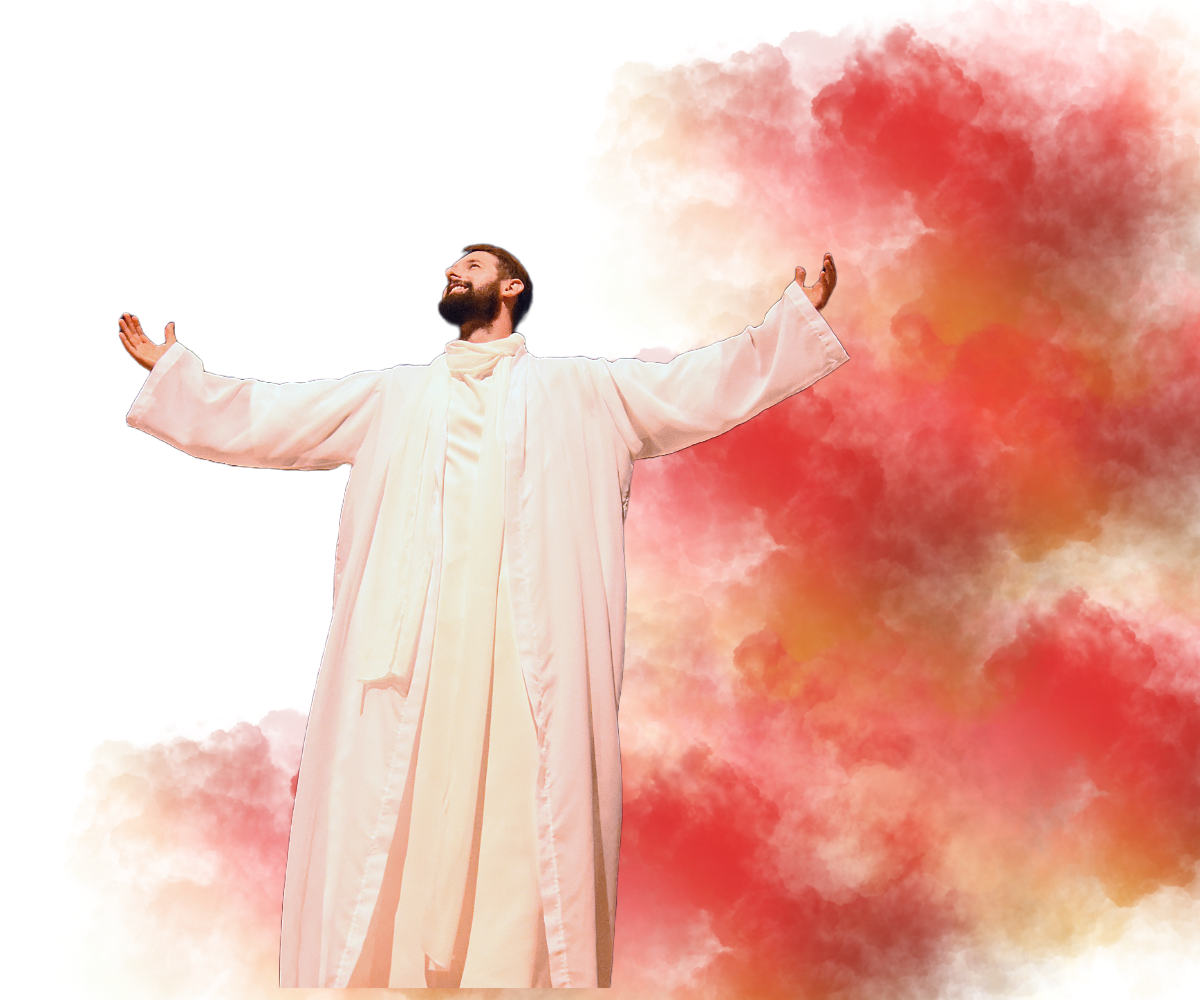
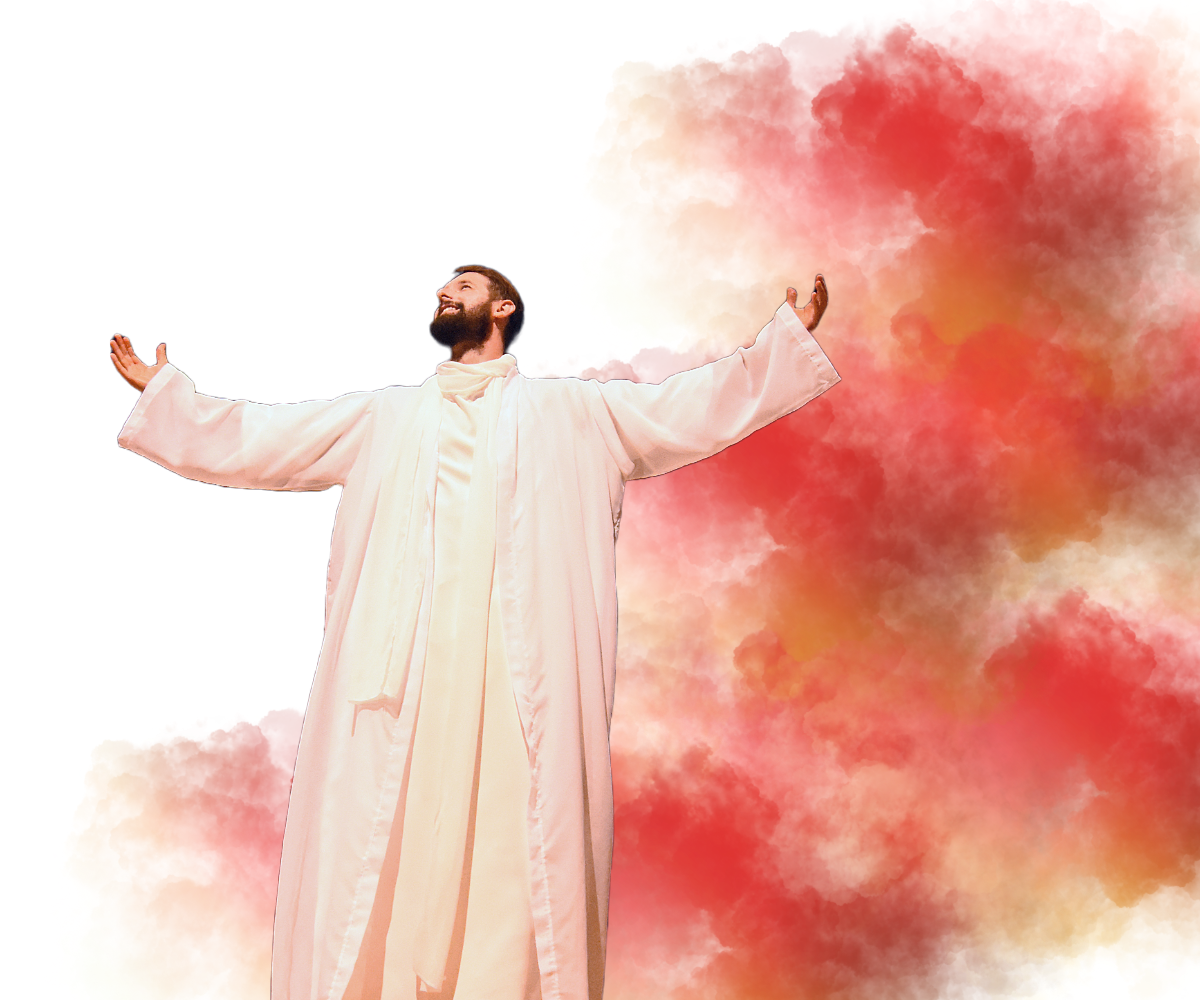
..

Changed region(s): [[0.0925, 0.248, 0.7092, 1.0], [0.2158, 0.775, 0.2775, 0.93]]

diff --git a/estilo.css b/estilo.css
@@ -1,7 +1,38 @@
+header {
+    width: 1440px;
+    height: 164px;
+    background-color: #800000; /* Cor de fundo do cabeçalho */
+    display: flex; /* Usar flexbox para centralizar o logo */
+    justify-content: center; /* Centralizar o logo na horizontal */
+    align-items: center; /* Centralizar o logo na vertical */
+    margin-right: 0%;
+}
+ 
+.logo {
+    width: 200px; /* Ajustar o tamanho do logo */
+    height: auto;
+}
 .body{
-    text-align: left; 
-    color: #800000;
+   background-image: url(Imagens/Fundo\ index\ auto\ v1.png);
+   background-size: cover;
+   background-position-x: right;
     }
+    .titulo {
+ text-align: left; 
+ color: #800000;
+width: 690px;
+height: 153px;
+    }
+
+    .img{
+        position: fixed; /* Fixar a imagem na tela */
+        top: 0; /* Posicionar no topo */
+        left: 0; /* Posicionar na esquerda */
+        width: 100%; /* Cobertura total na horizontal */
+        height: 100%; /* Cobertura total na vertical */
+        z-index: -1; /* Posicionar atrás do conteúdo */
+      }
+
 .button {
     content: ''; /* Conteúdo vazio para o ícone */
     display: inline-block;
@@ -10,4 +41,4 @@
     border: 2px solid #800000; /* Contorno preto para o triângulo */
     border-right: transparent; /* Remover borda direita para criar a seta */
     border-top: transparent; /* Remover borda superior para criar a seta */
-    transform: rotate(45deg);}
+}

diff --git a/saibamais.html b/saibamais.html
@@ -3,9 +3,20 @@
 <head>
     <meta charset="UTF-8">
     <meta name="viewport" content="width=device-width, initial-scale=1.0">
-    <title>Document</title>
+    <link rel="shortcut icon" href="Imagens/favicon.png" type="image/x-icon">
+    <link rel="stylesheet" href="estilo4.css">
+    <title>Saiba Mais</title>
 </head>
+<link rel="preconnect" href="https://fonts.googleapis.com">
+<link rel="preconnect" href="https://fonts.gstatic.com" crossorigin>
+<link href="https://fonts.googleapis.com/css2?family=League+Spartan:wght@100..900&display=swap" rel="stylesheet">
 <body>
+    
+    <h1>Nossa história</h1>
+    <p> O projeto do espetáculo teve início dentro de igrejas evangélicas de Americana e Santa Bárbara em 2017, sendo realizado nos templos. “Desde o primeiro que nós fizemos, nós fomos incentivados a realmente sair [de dentro das igrejas]. Falavam ‘poxa, esse projeto está muito bonito’”.
+    Foi no ano passado, com o “Auto de Páscoa – Tikvah” que os voluntários de cerca de 10 igrejas da região se reuniram para levar a encenação ao público geral.
+    Buscando para se consolidar o Espetáculo vai estrelar esse ano sobre a direção de Jhon Wesley Pantoja e Thiago Sasse para uma performance espetácular!
+    </p>
     
 </body>
 </html>

diff --git a/index.html b/index.html
@@ -10,16 +10,19 @@
 <link rel="preconnect" href="https://fonts.googleapis.com">
 <link rel="preconnect" href="https://fonts.gstatic.com" crossorigin>
 <link href="https://fonts.googleapis.com/css2?family=League+Spartan:wght@100..900&display=swap" rel="stylesheet">
+
 <body>
-   <div class="titulo"><h1>O maior espectáculo de Páscoa de Americana!</h1></div>
+
+    <header><img src="Imagens/logo cabeçalho.jpg" alt="logo"   width: 1440px;
+        height: 141px;> </header>
+   <div class="titulo"><h1>O maior espetáculo de Páscoa de Americana!</h1></div>
        <div class="button">
            <button type="button" href="participe.html">Participe</button></li>
            <button type="butt" href="ingressos.html">Ingressos</button></li>
            <button type="but"  href="saibamais.html">Saiba mais</button></li>
         </div>
    
-   
-    <img src="Imagens/Fundo index auto v1.png" alt="">
+        <img src="Imagens/Fundo index auto v1.png" alt="imagem de jesus" width="1200px" height="1000 px">
    
 </body>
 </html>

diff --git a/ingressos.html b/ingressos.html
@@ -3,8 +3,13 @@
 <head>
     <meta charset="UTF-8">
     <meta name="viewport" content="width=device-width, initial-scale=1.0">
-    <title>Document</title>
+    <link rel="shortcut icon" href="Imagens/favicon.png" type="image/x-icon">
+    <link rel="stylesheet" href="estilo2.css">
+    <title>Ingressos</title>
 </head>
+<link rel="preconnect" href="https://fonts.googleapis.com">
+<link rel="preconnect" href="https://fonts.gstatic.com" crossorigin>
+<link href="https://fonts.googleapis.com/css2?family=League+Spartan:wght@100..900&display=swap" rel="stylesheet">
 <body>
     
 </body>

diff --git a/participe.html b/participe.html
@@ -3,8 +3,13 @@
 <head>
     <meta charset="UTF-8">
     <meta name="viewport" content="width=device-width, initial-scale=1.0">
-    <title>Document</title>
+    <link rel="shortcut icon" href="Imagens/favicon.png" type="image/x-icon">
+    <link rel="stylesheet" href="estilo3.css">
+    <title>Participe</title>
 </head>
+<link rel="preconnect" href="https://fonts.googleapis.com">
+<link rel="preconnect" href="https://fonts.gstatic.com" crossorigin>
+<link href="https://fonts.googleapis.com/css2?family=League+Spartan:wght@100..900&display=swap" rel="stylesheet">
 <body>
     
 </body>
